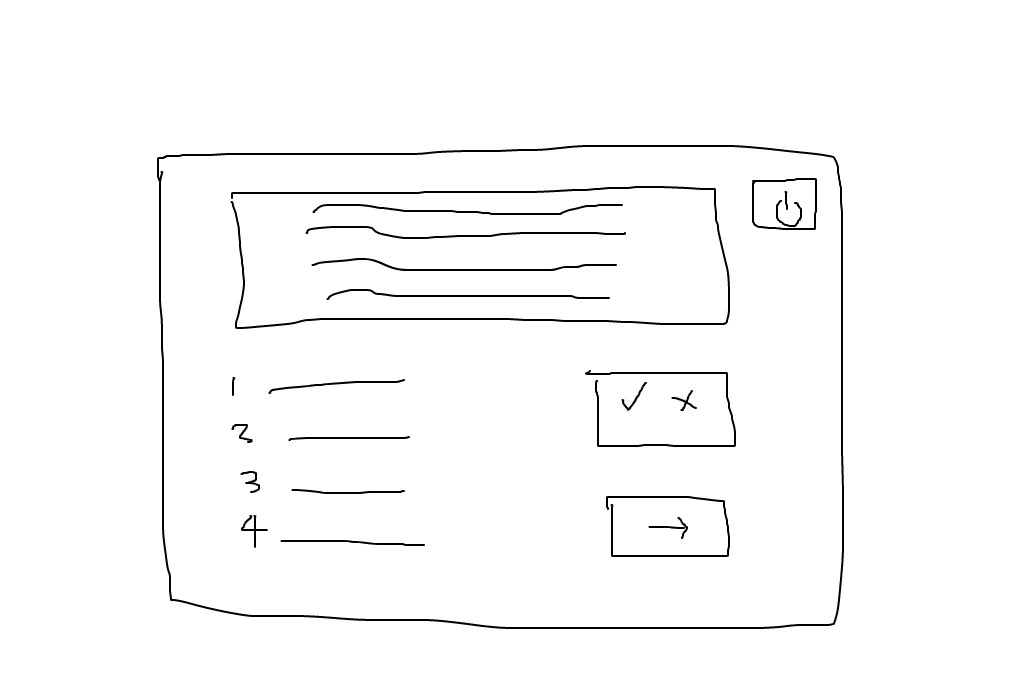
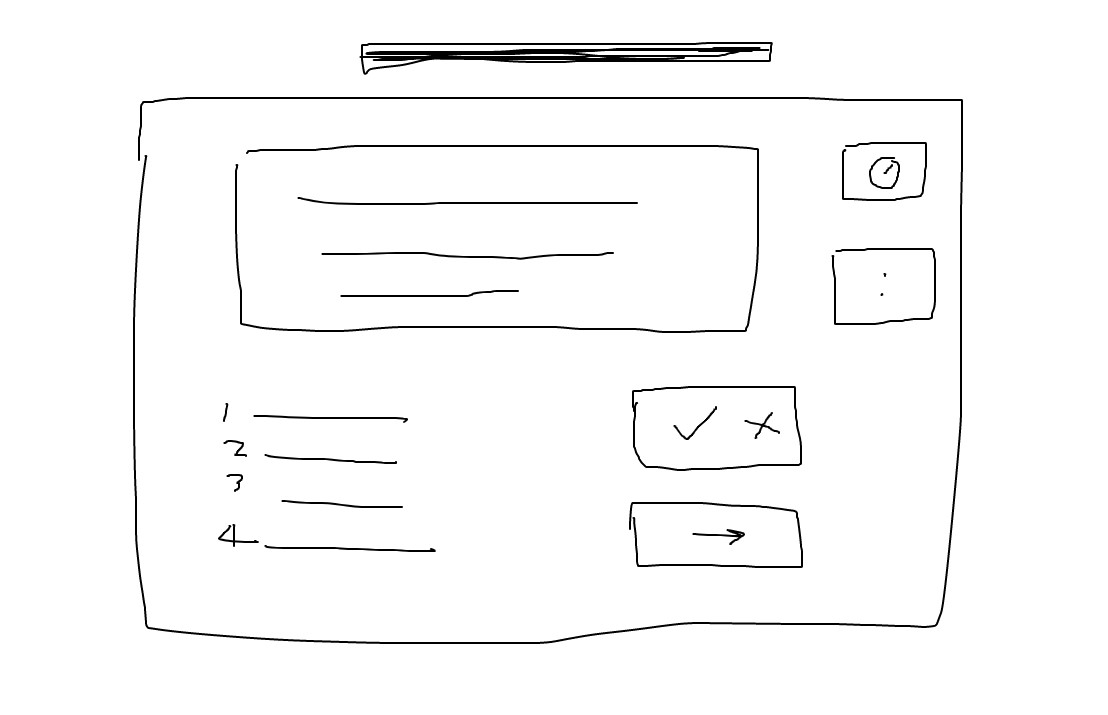
link external style sheet

diff --git a/index.html b/index.html
@@ -6,11 +6,12 @@
     <meta http-equiv="X-UA-Compatible" content="IE=edge">
     <meta name="viewport" content="width=device-width, initial-scale=1.0">
     <title>Coding Quiz</title>
+    <link rel="stylesheet" href="./assets/css/style.css">
 </head>
 
 <body>
+    <h1>Coding Quiz</h1>
     <main class="container">
-        <h1>Coding Quiz</h1>
         <div class="top">
             <section class="question">
                 <p>Lorem ipsum dolor sit, amet consectetur adipisicing elit. Natus debitis enim delectus beatae odio,
@@ -24,10 +25,10 @@
         <div class="bottom">
             <div class="left">
                 <ol>
-                    <li>Choice 1</li>
-                    <li>Choice 2</li>
-                    <li>Choice 3</li>
-                    <li>Choice 4</li>
+                    <li>This is a possible answer</li>
+                    <li>This is a possible answer</li>
+                    <li>This is a possible answer</li>
+                    <li>This is a possible answer</li>
                 </ol>
             </div>
             <div class="right">
@@ -35,7 +36,6 @@
                     <p>Correct!</p>
                 </section>
                 <button id="next-button">
-                    <img src="./assets/images/next-button.jpg">
                 </button>
             </div>
         </div>

diff --git a/assets/css/style.css b/assets/css/style.css
@@ -1,11 +1,8 @@
 .container {
-    /* insert css rule */
     background-color: gray;
 }
 
-.question {
-    /* insert css rule */
-}
+.question {}
 
 .top,
 .bottom {
@@ -16,21 +13,23 @@
 
 }
 
-.right {
+.bottom .right {
     display: flex;
     flex-direction: column;
+    justify-content: space-around;
+    align-items: center;
 
-    /* insert css rule */
 
-}
-
-.left {
-    /* insert css rule */
 
 }
 
-.bottom {
-    /*assign to bottom div*/
-    /* insert css rule */
+.left {}
 
+.bottom {}
+
+#next-button {
+    display: inline-block;
+    background-image: "./assets/images/next-button.jpg";
+    width: 50%;
+    height: 10%;
 }
